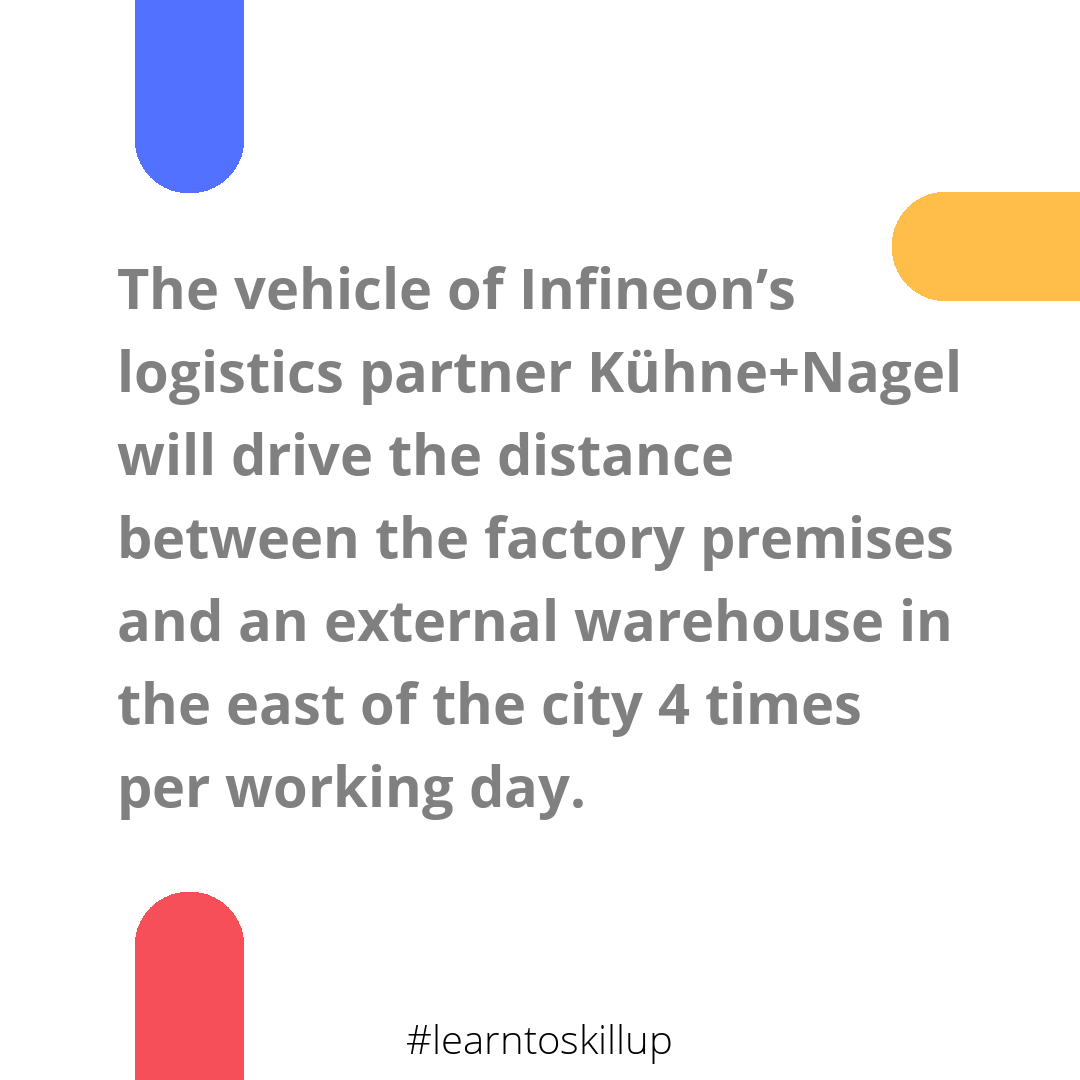
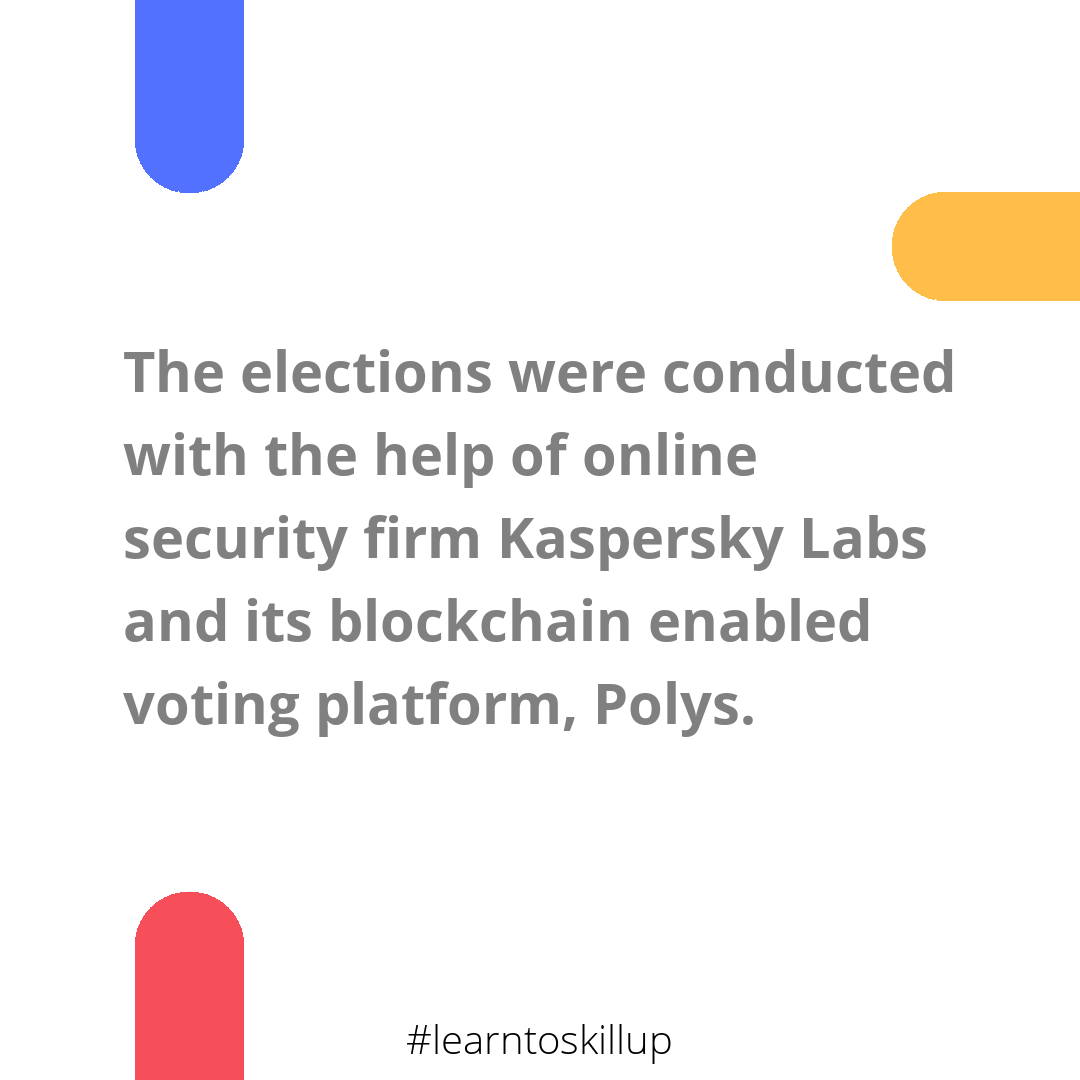
Add files via upload
added function to add photo to base image

Changed region(s): [[0.0917, 0.2444, 0.8861, 0.5194], [0.0917, 0.55, 0.8861, 0.7639]]

diff --git a/post_automation.py b/post_automation.py
@@ -71,21 +71,32 @@ def Draw_multiple_line_text(text, text_color, linespace):
                   line, font=font, fill=text_color)
         y_text1 += max_height_line+linespace
 
+def Add_image_to_template():
+    basewidth = 730
+    image = Image.open("cloud.png")
+    wpercent = (basewidth/float(image.size[0]))
+    hsize = int((float(image.size[1])*float(wpercent)))
+    img = image.resize((basewidth,hsize), Image.ANTIALIAS)
+    #img = PIL.Image.new(mode = "RGB", size = (730, 670), color = (0, 0, 0))
+    im.paste(img,(150,300))
+
+
 DrawShapeTop('rgb(82, 113, 255)')
 DrawShapeBottom('rgb(246, 79, 89)')
 #DrawShapeLeft('rgb(255, 189, 74)')
 DrawShapeRight('rgb(255, 189, 74)')
 DrawHashtag()
+Add_image_to_template()
 
 text2 = "The elections were conducted with the help of online security firm Kaspersky Labs and its blockchain enabled voting platform, Polys."
 text1 = "The vehicle of Infineon’s logistics partner Kühne+Nagel will drive the distance between the factory premises and an external warehouse in the east of the city 4 times per working day."
 #text_start_height = 100
-Draw_multiple_line_text(text1, 'grey',10)
+#Draw_multiple_line_text(text2, 'grey',10)
 #DrawText()
 
 
 im.show()
-im.save('abc.png')
+#im.save('temp2.png')
 '''mask = im.resize((w, h), Image.ANTIALIAS)
 mask.show() 
 mask.save('abc1.png')'''
